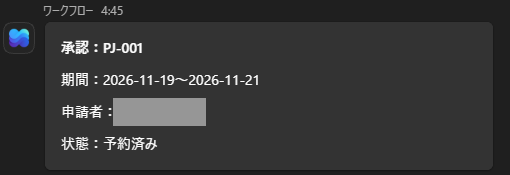
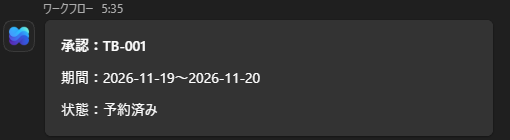
承認の Teams のカードの画像を、氏名を載せない版に撮り直した

diff --git a/README.md b/README.md
@@ -60,7 +60,7 @@ flowchart LR
 |---|---|---|
 | <img src="docs/images/approval.png" alt="承認依頼。件名・期間・利用目的が表示される" width="200"> | <img src="docs/images/teams-approved.png" alt="承認の知らせのカード" width="300"> | <img src="docs/images/outlook-mail.png" alt="承認されたことを知らせるメール" width="380"> |
 
-> Teams のカードの画像は、最終監査の前の版です（申請者の行があり、氏名は塗りつぶし）。今の版では、チャンネルのカードに氏名を載せません。
+> Teams のカードは、最終監査の修正（チャンネルに氏名を載せない）の後に、別の申請（TB-001）で撮り直したものです。
 
 **3. 社員の「自分の貸出」で予約済みになる**
 
